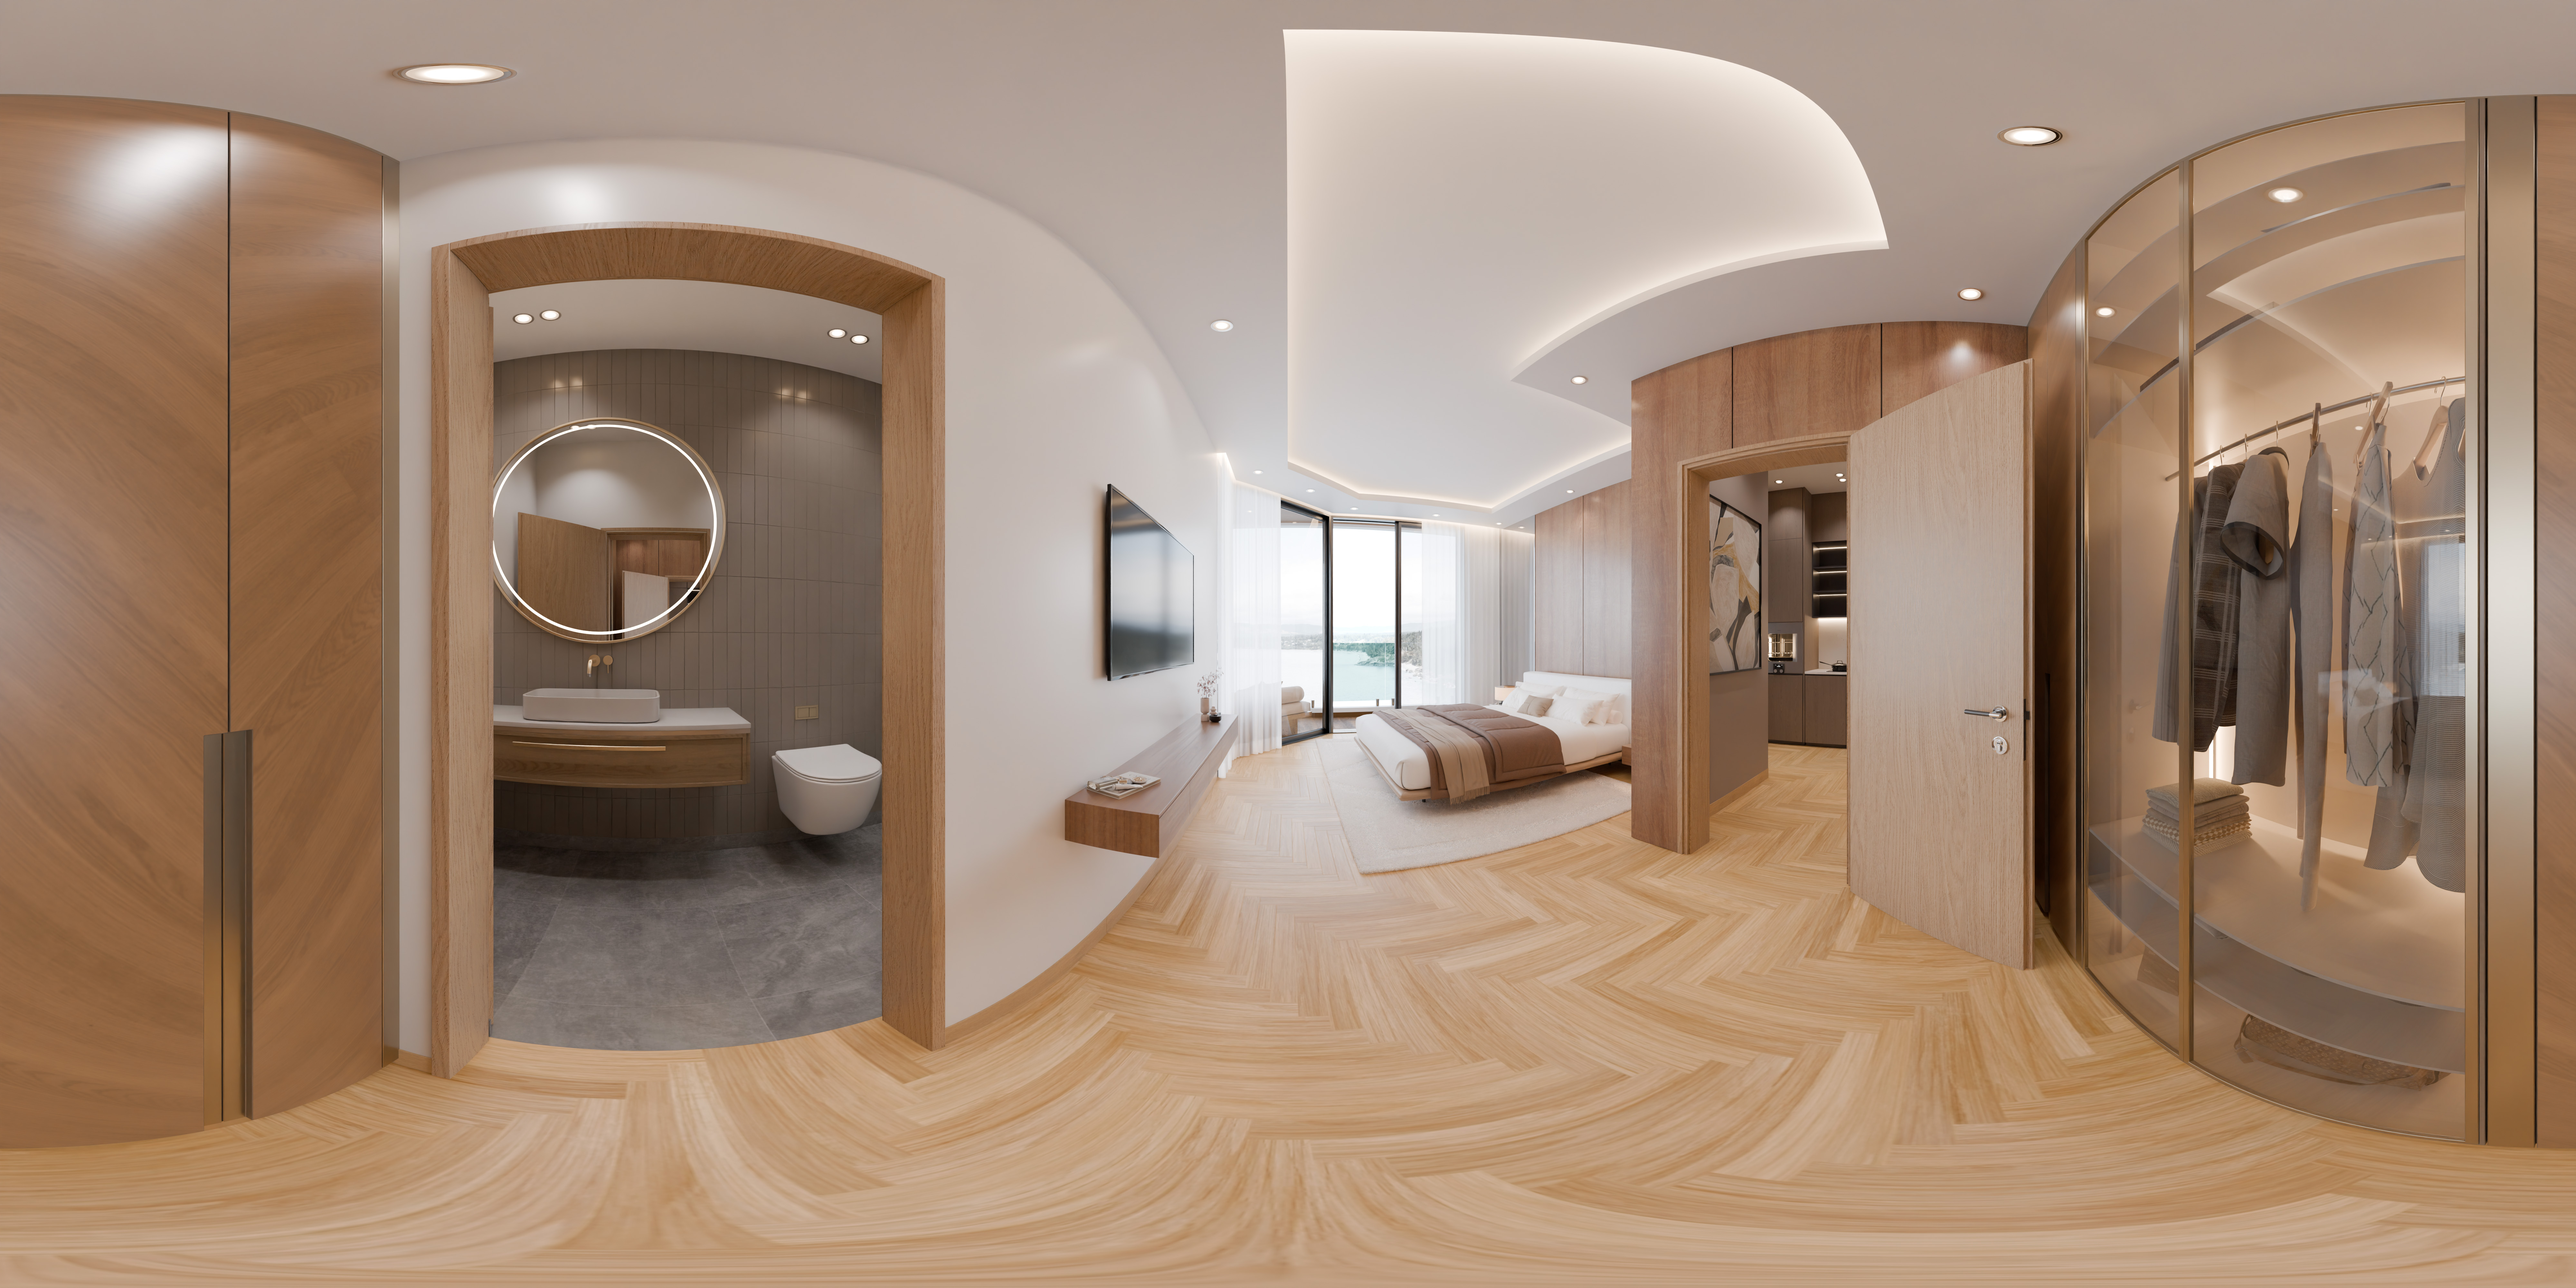
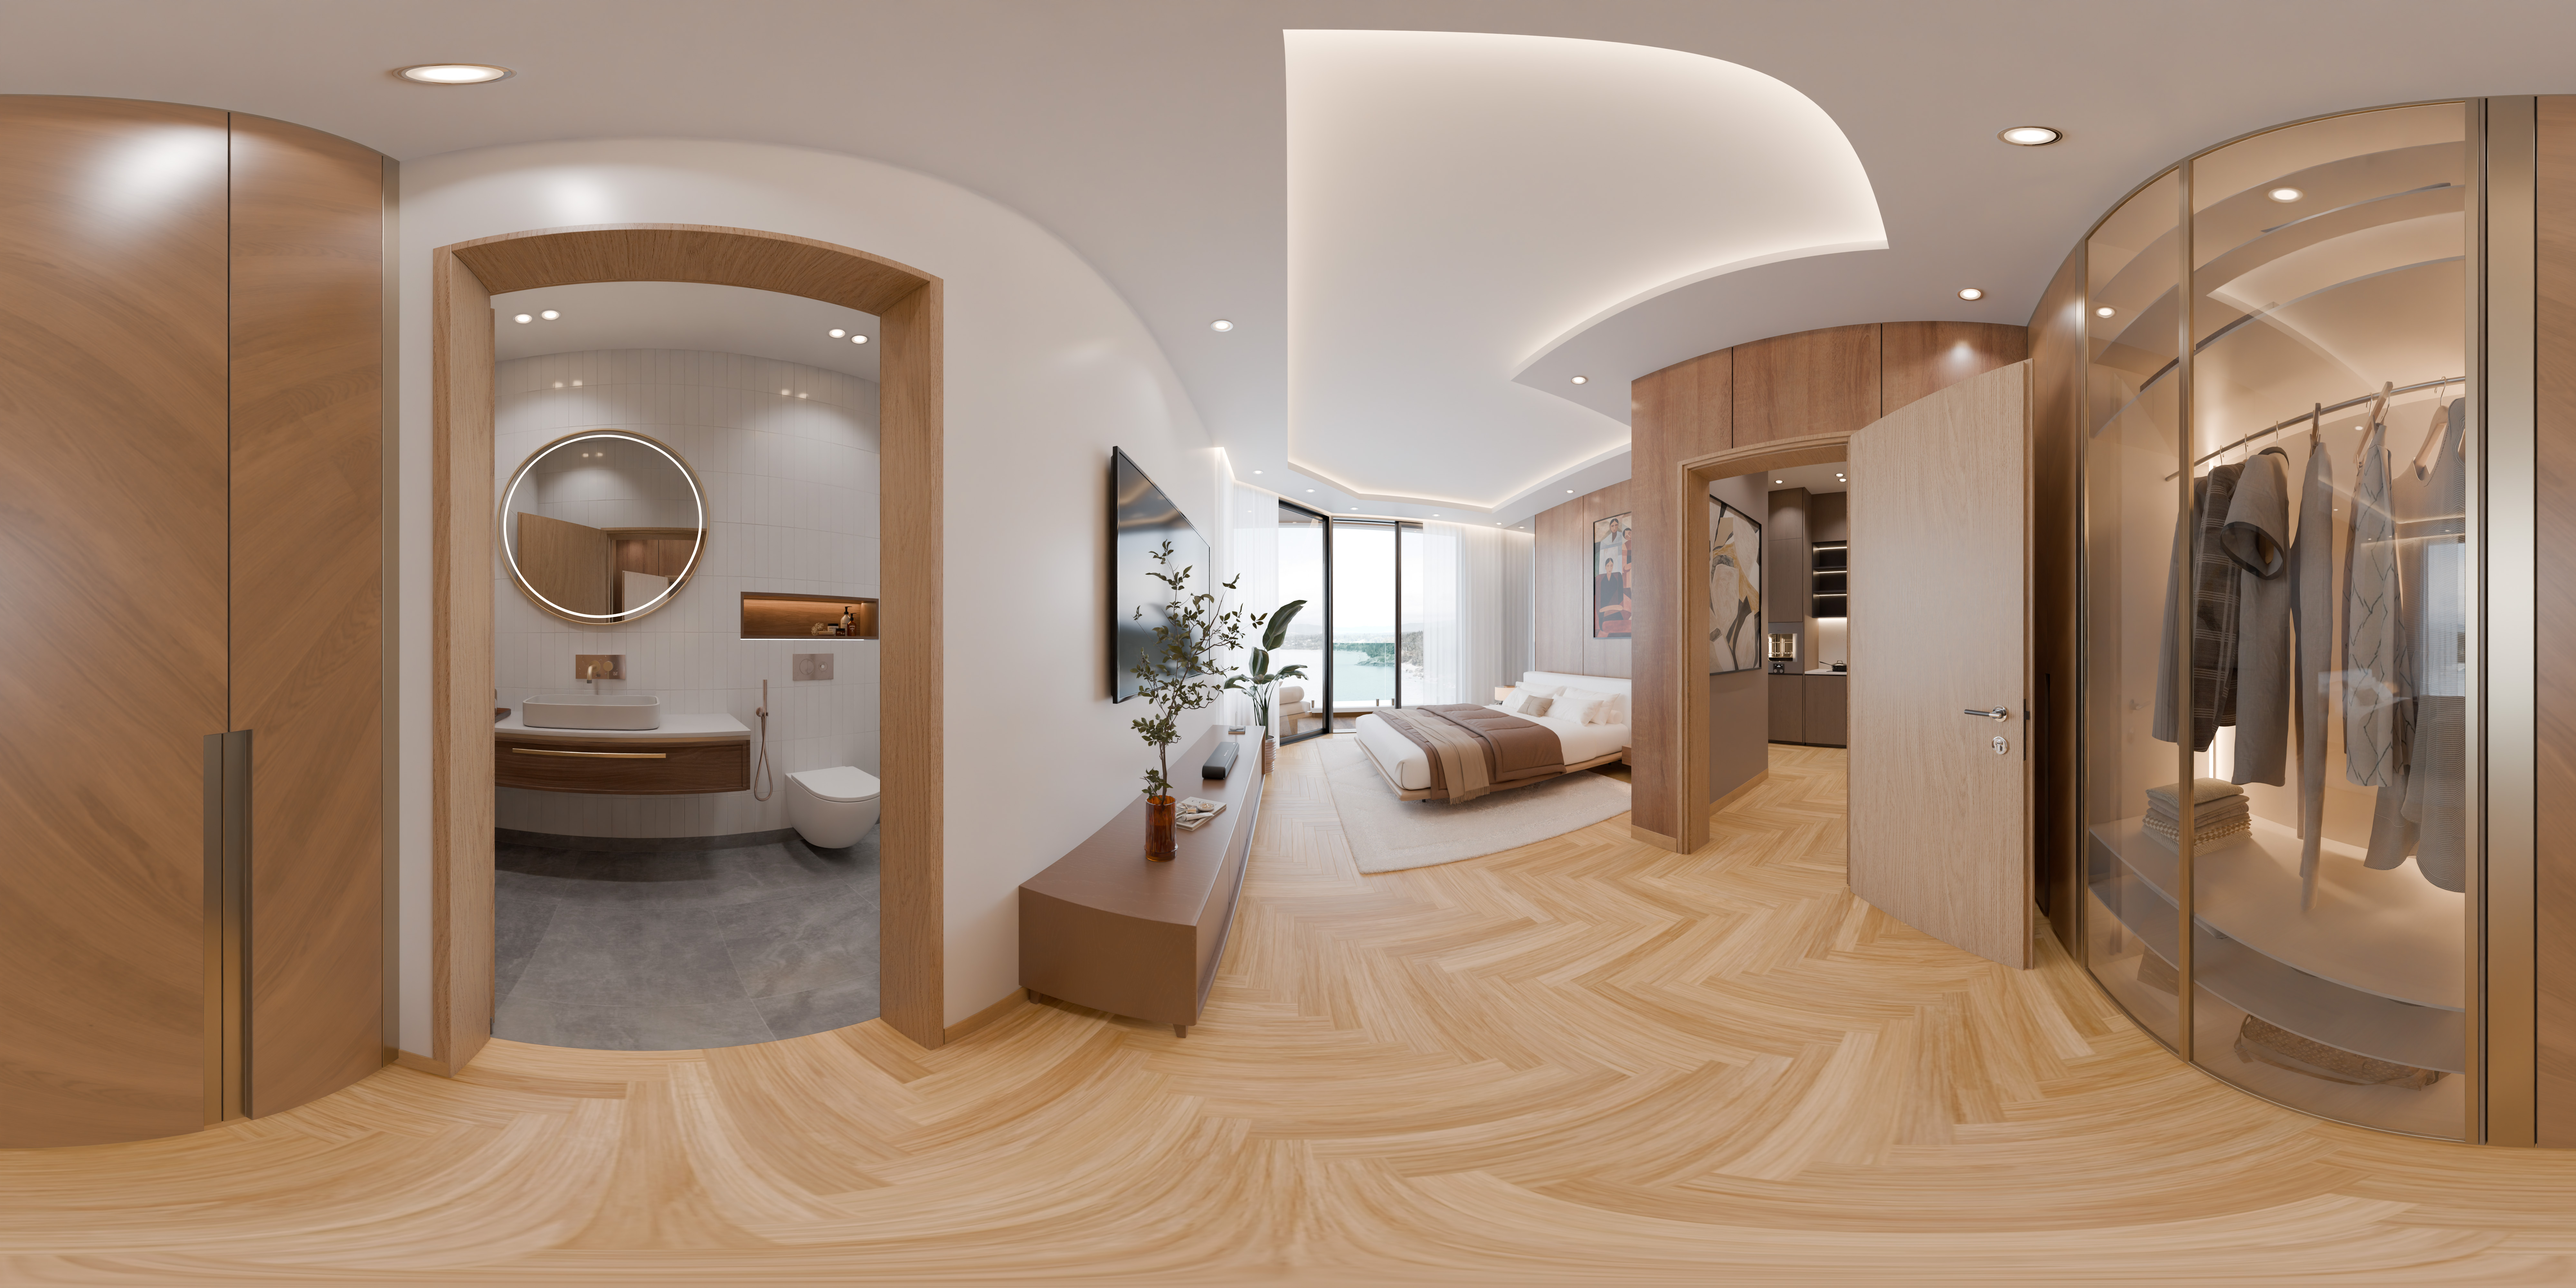
first commit-5

diff --git a/index.html b/index.html
@@ -1307,7 +1307,7 @@ position="2.597 -0.064 0.508"
         }
       };                                                                                                                                                                                                                                                                                                                                                                                                                                                                                                                                                                                                                                                                                                                                                                                                                                                                                                                                                                                                                                                                                                                                                                                                                                                                                                                                                                                                                                                                                                                                                                                                                                                                                                                                                                                                                                                                                                                                                                                                                                                                                                                                                                                                                                                                                                                                                                                                                                                                                                                                                                                                                                                                                                               
 
-      setStart(23);
+      setStart(22);
 
       AFRAME.registerComponent("the_dote", {
         schema: {
